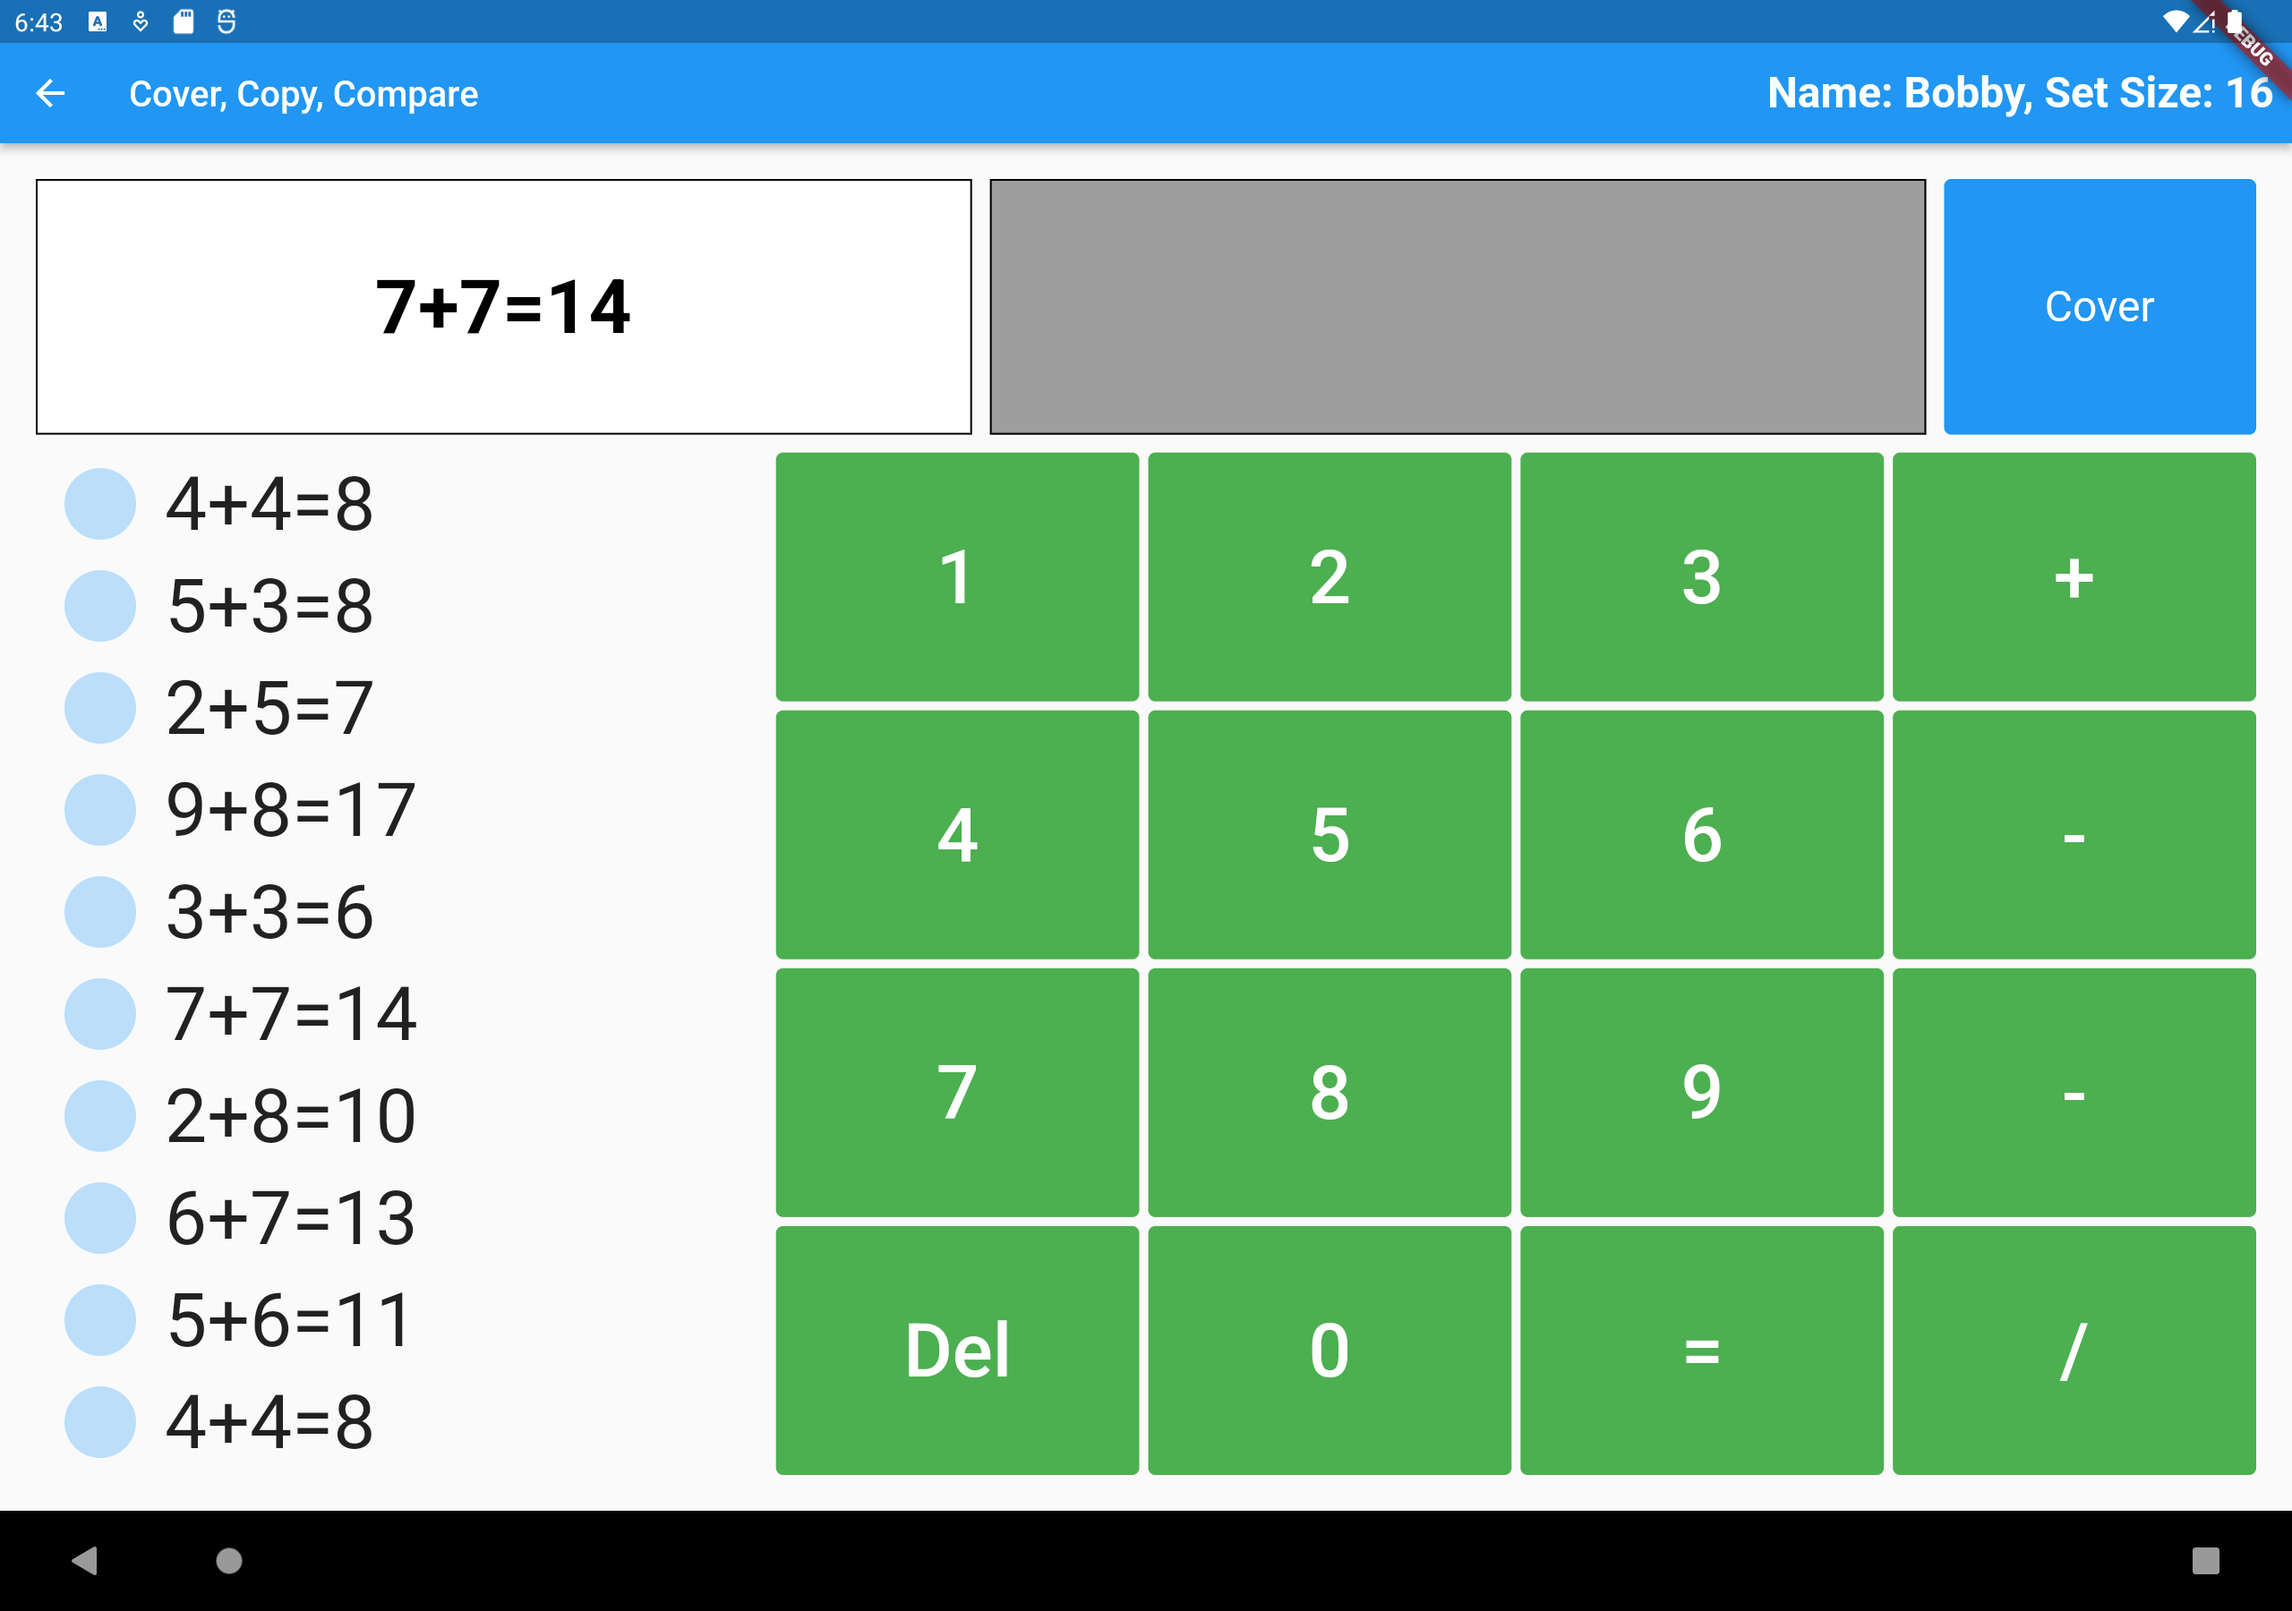
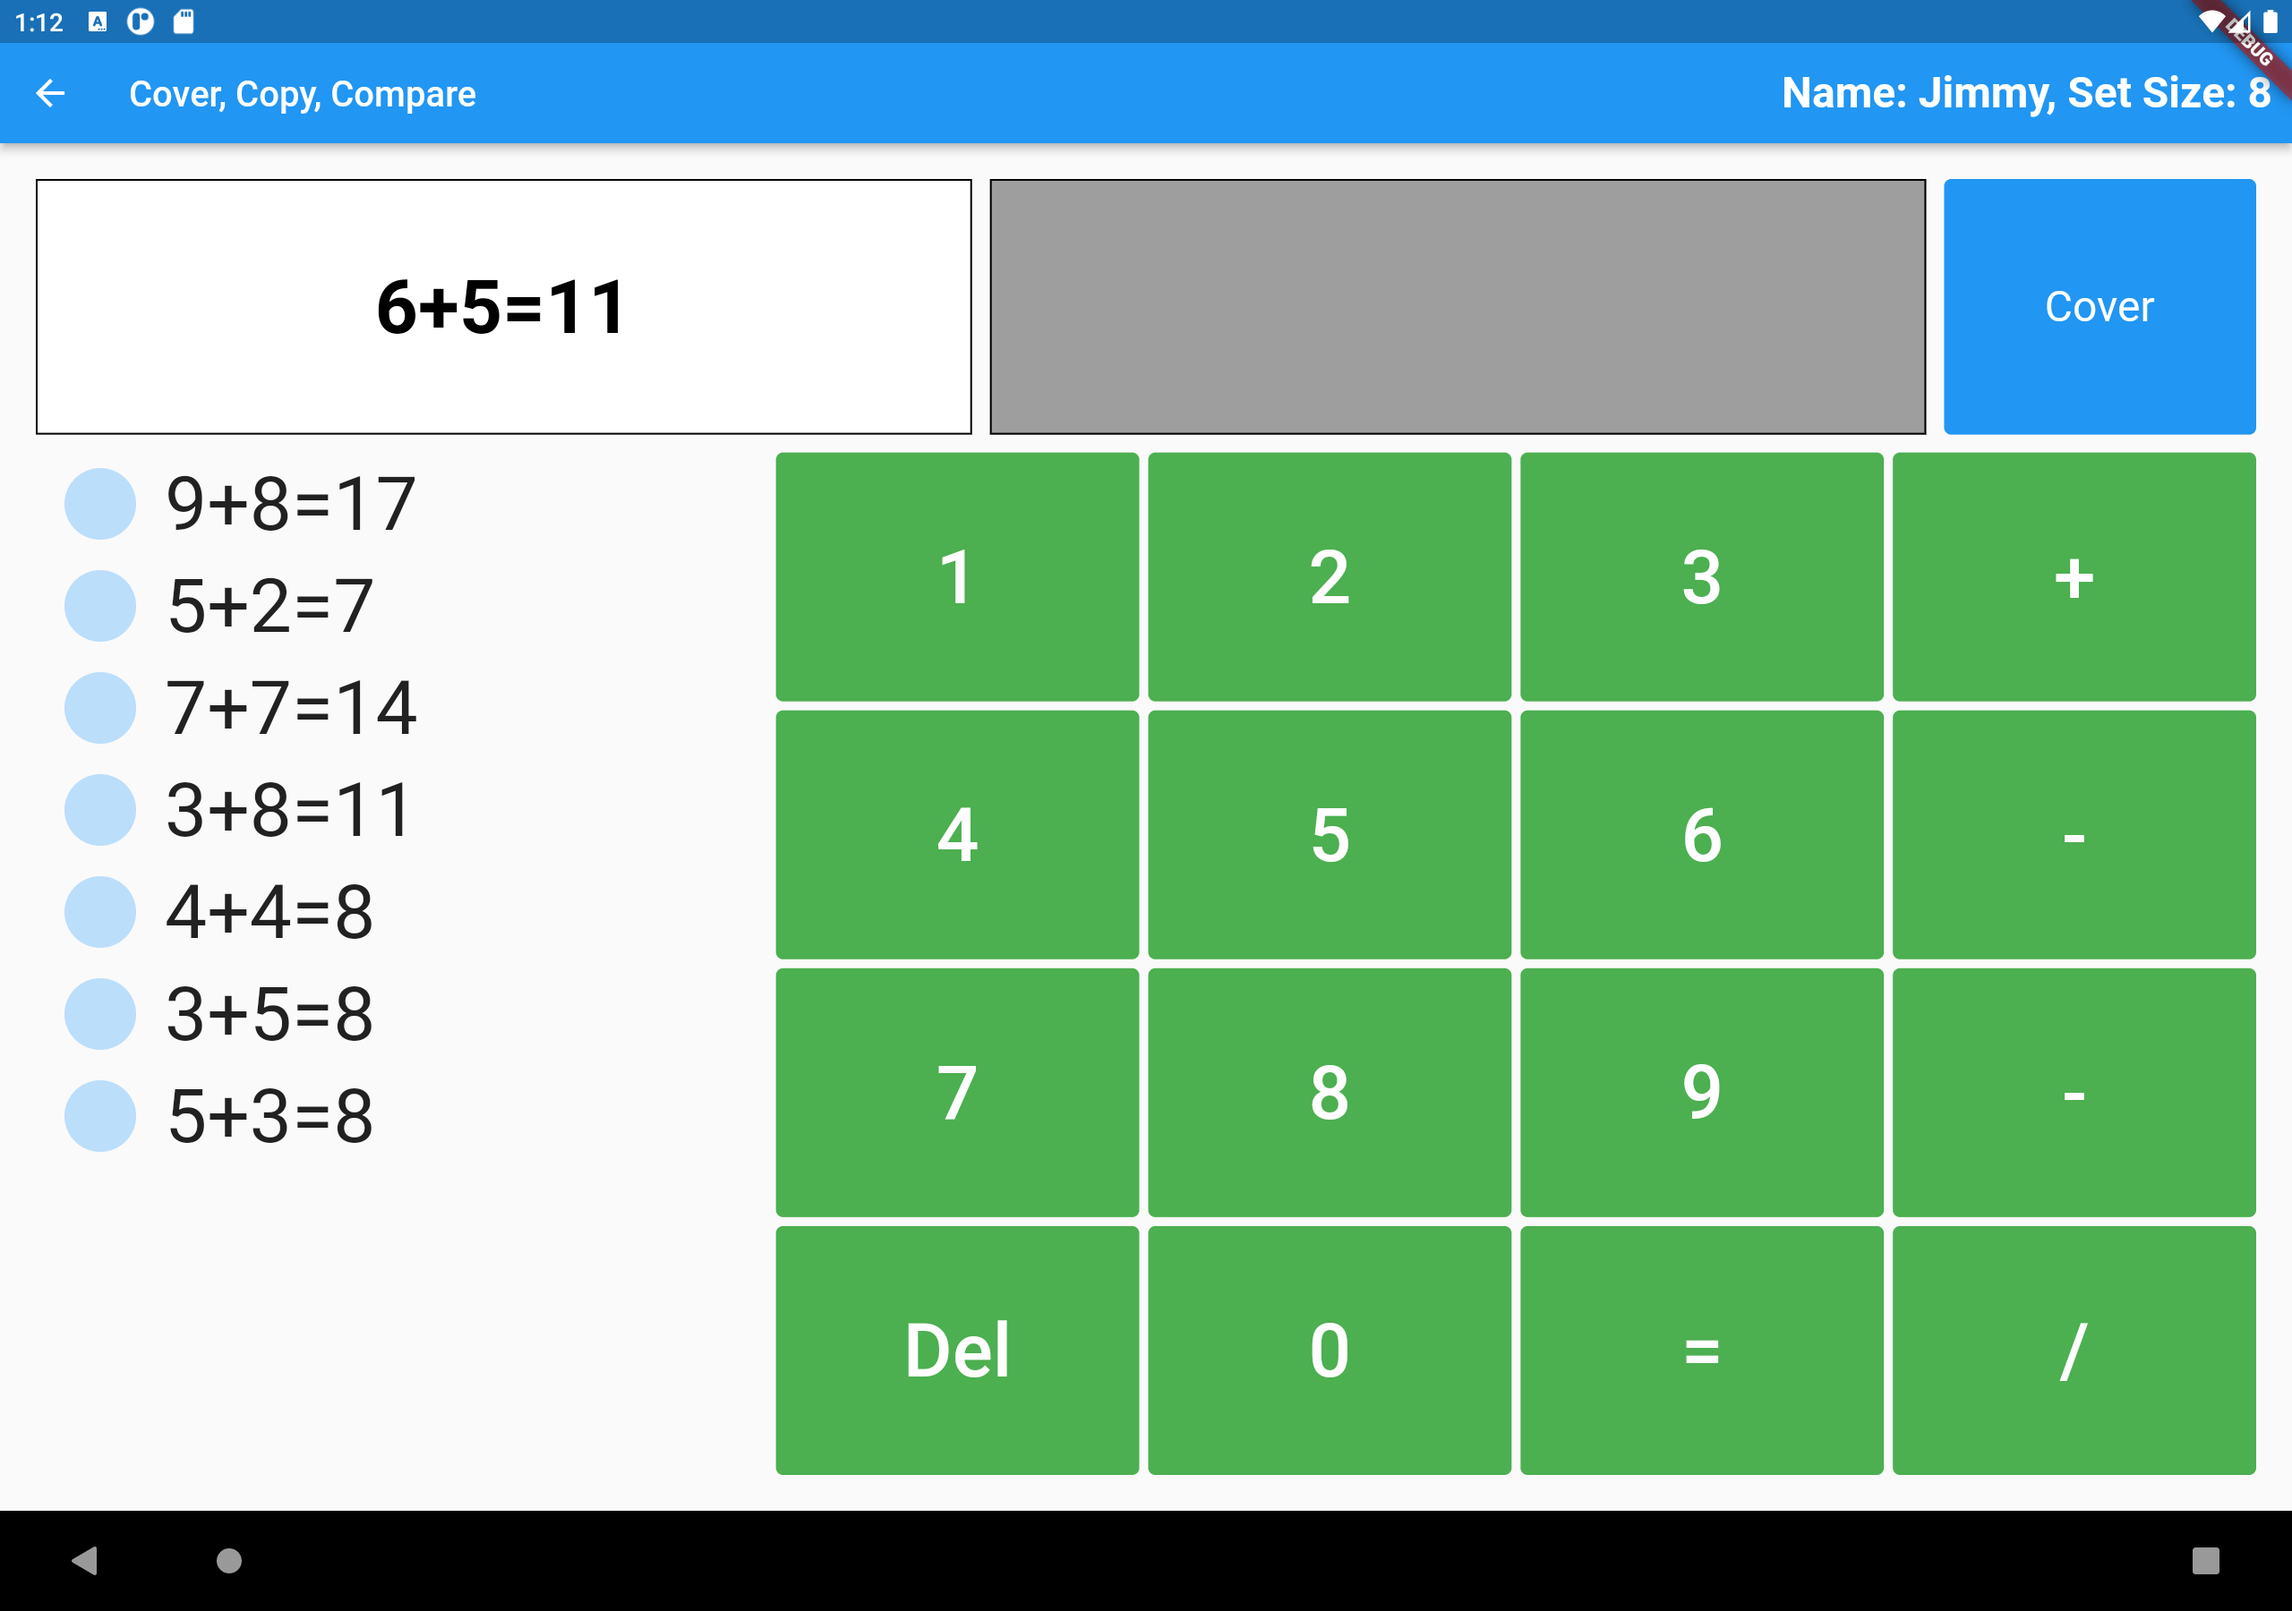
Update SS w/ interface changes

diff --git a/README.md b/README.md
@@ -26,6 +26,10 @@ Implementation of Cover-Copy-Compare:Vertically (paper free!)
 
 ![Virtual interface for Cover Copy Compare](screenshots/Screenshot_1646232732.png "Cover Copy Compare")
 
+Visual Feedback for individual students (Teacher-adjustible aim lines as well)
+
+![Virtual interface for Cover Copy Compare](screenshots/Screenshot_1646248483.png "Cover Copy Compare")
+
 ### Version
 
 -   0.0.0.1 - Alpha
